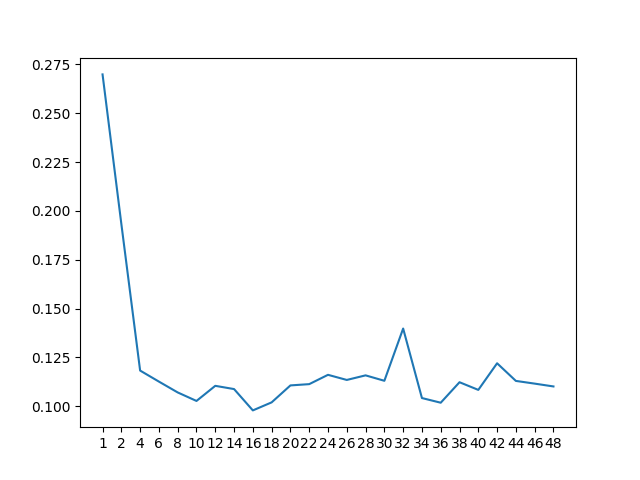
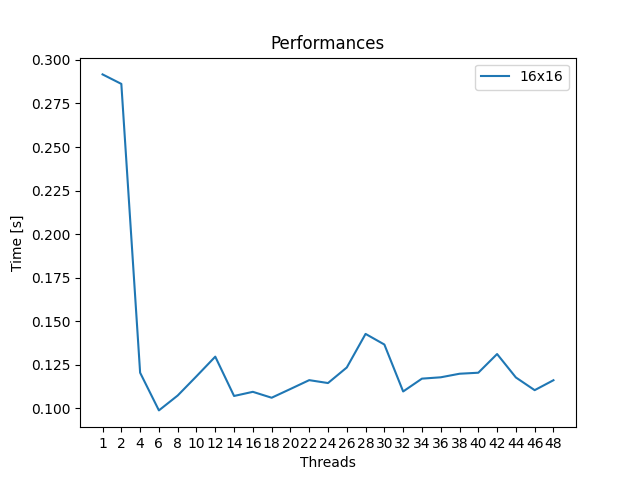
Cleaned plot.py script code

diff --git a/plot.py b/plot.py
@@ -1,25 +1,37 @@
 import subprocess
 import matplotlib.pyplot as plt
 
-THREADS = ["1","2","4","6","8","10","12","14","16","18","20","22","24","26","28",
-           "30","32","34","36","38","40","42","44","46","48"]
+# Max number of usable threads
+MAX_THREADS = 48
+THREADS = ["1"] + [str(i) for i in range(2, MAX_THREADS+1, 2)]
+# Sudoku board field sizes to test
 FIELD_SIZES = [3,4,5]
+# Sudoku board files to test
 FILES = ["bin/sudoku-9x9.txt", "bin/sudoku-16x16.txt", "bin/sudoku-25x25.txt"]
 
+# Array to store the data produced by the executions of the sudoku binary
 data = []
+
+# Execute the sudoku binary for each field size and each number of threads
 for i in range(len(FIELD_SIZES)):
     for thread in THREADS:
-        output = subprocess.run(["./sudoku", str(FIELD_SIZES[i]*FIELD_SIZES[i]), str(FIELD_SIZES[i]), FILES[i]], env={"OMP_NUM_THREADS": thread, "OMP_PROC_BIND": "false", "OMP_WAIT_POLICY": "active"}, capture_output=True)
-        output = output.stdout.decode('utf-8')
-        line_sec = output.split("\n")[-4]
-        seconds = line_sec.split("took ")[1].split(" seconds")[0]
+        # Obtain the output of the sudoku binary in the form of a byte array
+        output_bin_array = subprocess.run(["./bin/sudoku", str(FIELD_SIZES[i]*FIELD_SIZES[i]), str(FIELD_SIZES[i]), FILES[i]], env={"OMP_NUM_THREADS": thread}, capture_output=True)
+        # Transform the byte array into a string
+        output = output_bin_array.stdout.decode('utf-8')
+        # Take the time taken to solve the sudoku board from the output string
+        seconds = output.split("took ")[1].split(" seconds")[0]
+        # Append the array made of the file name, the number of threads and the time taken to solve the sudoku board with the
+        # current configuration [file, num_threads, time] to the data array
         data.append([FILES[i] ,thread, float(seconds)])
         print(f"File: {FILES[i]}, Threads: {thread}, {seconds} seconds")
 
-num_of_threads = []
+# Arrays to store the computation times for each sudoku board size
 computation_times_9x9 = []
 computation_times_16x16 = []
 computation_times_25x25 = []
+
+# Fill the computation times arrays with the data from the data array according to the input file used: [9x9, 16x16, 25x25]
 for d in data:
   if d[0] == FILES[0]:
     computation_times_9x9.append(d[2])
@@ -28,34 +40,25 @@ for d in data:
   if d[0] == FILES[2]:
     computation_times_25x25.append(d[2])
 
+# Grouping the computation times arrays in a single array
+computation_times = [computation_times_9x9, computation_times_16x16, computation_times_25x25]
 
+# Plotting the computation times for each sudoku board size in different plots
+for i in range(len(computation_times)):
+  plt.figure()
+  # Plot as x-axis the number of threads and as y-axis the computation time
+  plt.plot(THREADS, computation_times[i])
 
-plt.figure()
-plt.plot(THREADS, computation_times_9x9)
-plt.xlabel("Threads")
-plt.ylabel("Time [s]")
-plt.legend(["9x9"])
-plt.title('Performances')
-plt.savefig("plot9x9.png")
-plt.close()
-
-plt.figure()
-plt.plot(THREADS, computation_times_16x16)
-plt.xlabel("Threads")
-plt.ylabel("Time [s]")
-plt.legend(["16x16"])
-plt.title('Performances')
-plt.savefig("plot16x16.png")
-plt.close()
-
-plt.figure()
-plot25x25 = plt.plot(THREADS, computation_times_25x25)
-plt.xlabel("Threads")
-plt.ylabel("Time [s]")
-plt.legend(["25x25"])
-plt.title('Performances')
-plt.savefig("plot25x25.png")
-plt.close()
+  # Set the labels, title and legend of the plot
+  plt.xlabel("Threads")
+  plt.ylabel("Time [s]")
+  board_size = FILES[i].split("-")[1].split(".")[0]
+  plt.legend([board_size])
+  plt.title('Performance')
+  
+  # Save the plot as a png file
+  plt.savefig(f"plot{board_size}.png")
+  plt.close()
 
 
 

diff --git a/sudoku.cpp b/sudoku.cpp
@@ -34,6 +34,10 @@
  * partial solutions used to parallelize the resolution of the sudoku among different tasks.
  */
 #define CELLS_TO_PERMUTE 7
+
+/**
+ * Flag to print the solutions found.
+ */
 #define PRINT_SOLUTIONS false
 
 /**
